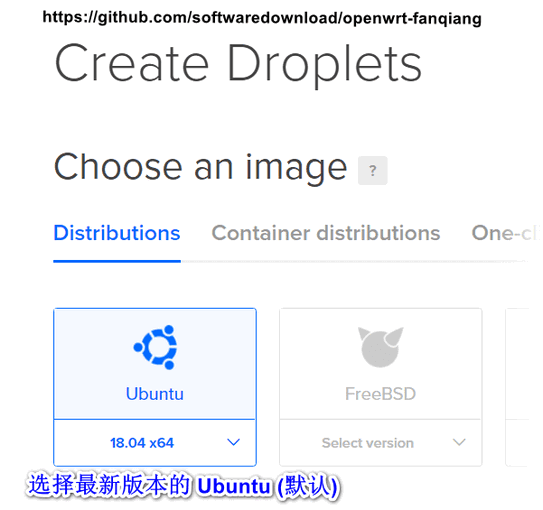
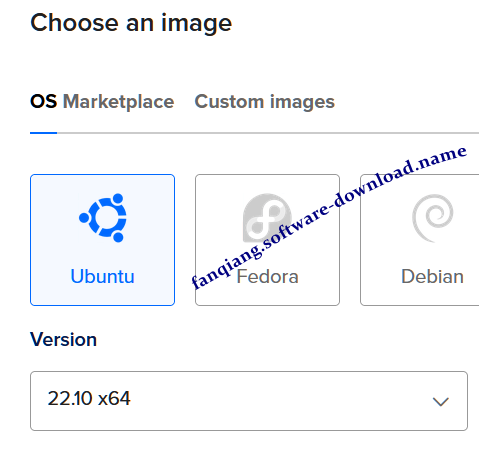
Update DO tutorial

diff --git a/ebook/03.9.md b/ebook/03.9.md
@@ -1,112 +1,134 @@
 零起点DO VPS shadowsocks-libev 翻墙设置教程
-=======================================
+===
 
 [Digital Ocean](https://m.do.co/c/89497bd485e0) (DO) 的优点：
---------
+---
 
 - 业界最有名的VPS服务商，服务有保障
 - 全SSD硬盘，速度极快，重启在10秒内
 - 所有 VPS 具有独立 IP 地址
-- 费用极低，$5/月起，作为 shadowsocks 足够了
-- 管理后台Console Access可以直接运行所有linux命令，可以不设置SSH
+- 费用极低，$4/月起，作为 shadowsocks 足够了
+- DO 网站的管理面板 Console 可以直接运行所有 Linux 命令，可以不在本机设置 SSH
 - 收费以小时计算，不用了可以删除，不会多收一分钱
 - 官方专业人员发布大量零起点教程，服务器管理菜鸟的福音
-- 更换IP方便，创建 snapshot，再从 snapshot 新建 Droplet, 就能得到新的IP了
+- [更换 IP 十分方便](03.9-1.md)，创建 snapshot，再从 snapshot 新建 Droplet, 就能得到新的 IP了
 
-    有时 VPS IP被屏蔽，翻墙自然失败，必须更换IP，[Digital Ocean](https://m.do.co/c/89497bd485e0) 更换 IP 就是几分钟的事情，然后翻墙客户端更新一下 Server IP 就可以了
+    [Digital Ocean](https://m.do.co/c/89497bd485e0) 更换 IP 就是几分钟的事情，然后翻墙客户端更新一下 Server IP 就可以了
 
 **[立即点击这里注册DO](https://m.do.co/c/89497bd485e0)**
 
-创建翻墙用的虚拟服务器Droplet
+
+创建翻墙用的虚拟服务器 Droplet
 --------
 
-注册DO并绑定支付方式后，登录管理后台，点击右上角的 `Create` 从下拉菜单中选择 `Droplets`:
-
-![Digital Ocean 创建 Droplet](images/3.9.create-droplets-on-digital-ocean.png)
-
-为什么 [Digital Ocean](https://m.do.co/c/89497bd485e0) 把 VPS 叫作 Droplet (水滴) 呢？ 这是因为公司名字 Digital Ocean 数字海洋，正是海量的水滴组成了 VPS 的海洋
+为什么 [Digital Ocean](https://m.do.co/c/89497bd485e0) 把 VPS 叫作 Droplet (水滴) 呢？ 这是因为公司名字是 Digital Ocean（数字海洋），正是海量的水滴组成了 VPS 的海洋
 
 现在我们知道了 VPS 在 DO 叫作 Droplet
 
+注册DO并绑定支付方式后，登录 [Digital Ocean](https://m.do.co/c/89497bd485e0) 管理后台，点击右上角的 `Create` 从下拉菜单中选择 `Droplets`:
+
+![Digital Ocean 创建 Droplet](images/3.9.create-droplets-on-digital-ocean.png)
+
+
 - Choose region 选择地区
 
-    多个城市可选，一般选择 San Francisco 或 New York。据从国内有限ping ip测试，San Francisco 比 New York 快约 60ms
+    多个城市可选，一般选择 San Francisco 或 New York。据从国内有限 ping ip 测试，San Francisco 比 New York 快约 60ms
     ![Digital Ocean VPS 选择区域](images/3.9.choose-a-datacenter-region.png)
 
+- Datacenter 选择数据中心
+
+    同一个地区可能有多个数据中心，不同数据中心的附加功能可能有所不同，页面有提示。对于翻墙来说，此步使用默认值就可以了
 
 - Choose an image 选择操作系统镜像
 
-    默认就是最新版的 Ubuntu x64，挺好! shadowsocke有的功能需要较新版的 Ubuntu 才能支持：
+    默认就是最新版的 Ubuntu x64，挺好!
     ![Digital Ocean VPS 选择操作系统发行版](images/3.9.choose-an-image.png)
 
-- Choose a plan 选择一个方案：STARTER - Standard (入门款 - 标准配置)
+- Choose Size 选择大小
 
-    ![Digital Ocean VPS 选择一个方案](images/3.9.choose-a-plan.png)
+    1. Droplet type 选择类型
 
-- 选择VPS的配置，最便宜款足够强大了
+        ![Digital Ocean VPS 选择一个方案](images/3.9.choose-droplet-type.png)
 
-    默认显示的是价格中等的方案，要向左滚动才能显示出我们需要的最便宜的方案
+        如上图，选择 `Basic` 基础款 VPS
 
-    ![Digital Ocean VPS 选择系统配置](images/3.9.choose-a-size-1.png)
 
-    再选择最便宜的VPS方案，5美元每月，0.007美元每小时，相当于人民币几分钱每小时：
+    2. CPU options 配置选项
 
-    ![Digital Ocean VPS 选择系统配置](images/3.9.choose-a-size.png)
+        ![Digital Ocean VPS 选择，点击向左箭头以显示最便宜款](images/3.9.choose-cpu-options-1.png)
 
-- Select additional options 选择附加选项, 勾选IPv6：
-    ![Digital Ocean VPS 使用 IPv6](images/3.9.select-addtional-options.png)
+        如上图，点击左侧的箭头后，会显示出我们需要的最便宜的方案
 
-- Choose a hostname (主机名字), 只是助记，比如改成ubuntu-shadowsocks
+        ![Digital Ocean 选择 4 美元每月的VPS](images/3.9.choose-cpu-options-2.png)
 
-    ![Digital Ocean 选择主机名字](images/3.9.choose-host-name-on-digital-ocean.png)
+        如上图，再点击选择最便宜的VPS方案，4 美元每月，0.006美元每小时，相当于人民币几分钱每小时
 
-- Create Droplet 创建虚拟服务器 **水滴**
+- Advanced options 高级选项
 
-    点击 **Create Droplet** 创建虚拟服务器VPS
+    ![Digital Ocean VPS 高级选项启用 IPv6](images/3.9.choose-advanced-options.png)
+
+    `Advanced Options` （高级选项）可能默认没有展开，点击展开它
+
+    勾选 `Enable Ipv6(free)`(启用 IPv6)
+
+- Finalize Details 最终细节设置
+
+    ![Digital Ocean 创建主机的最终细节设置](images/3.9.finalize-details.png)
+
+    - Quantity（数量）。默认创建 1 个 Droplet
+    - Hostname（主机名）。你自己用来分辨主机的特点、用途等
+    - Tags（标签）。如果你的VPS很多，标签可以用来分类。此处可以不填
+
+- Create Droplet 创建虚拟服务器 VPS
 
     ![Digital Ocean 创建VPS Droplet](images/3.9.create-droplet-on-digital-ocean.png)
 
+    点击 **Create Droplet** 创建虚拟服务器VPS
+
+
 进入 [Digital Ocean](https://m.do.co/c/89497bd485e0) VPS管理界面
---------
-
-
-在20秒内，VPS创建完毕后自动进入了 `Droplets` （VPS）列表页面
-
-以后每次登录 [Digital Ocean](https://m.do.co/c/89497bd485e0) 网站后，先展开左侧导航栏的 `MANAGE`(管理)，点击 **Droplets** 进入所有 VPS 的管理页面，再点击某个 Droplet名字进入某个VPS的管理页面，如下图：
+---
 
 ![Digital Ocean VPS 后台管理界面](images/3.9.jinru-fanqiang-vps-guanli.png)
+在20秒内，VPS创建完毕后自动进入了 `Droplets` （VPS）列表页面
+
+如上图，以后每次登录 [Digital Ocean](https://m.do.co/c/89497bd485e0) 网站后，先展开左侧导航栏的 `MANAGE` (管理)，点击 **Droplets** 进入所有 VPS 的管理页面，再点击某个 Droplet 名字进入某个VPS的管理页面
+
 
 如何重置DO VPS Root密码
---------
+---
 
 注：如果已经通过邮件收到root密码，请跳到一下步
 
-在进入你的某个VPS管理页面后，
+![Digital Ocean VPS重置密码](images/3.9.reset-password.png)
+
+在进入你的某个 VPS 管理页面后，
 
 点击左边的 `Access` 再点击右边的 `Reset Root Password` 重置密码：
-![Digital Ocean VPS重置密码](images/3.9.reset-password.png)
 
 重置密码完成后，新的密码会发送到你的邮箱，下面我们就用这个密码登录并直接通过网页 Console 控制台管理 VPS
 
 进入DO VPS命令行控制界面 Console Access
---------
+---
 
-DO有个极为强大的功能，可以可以直接在管理后台Console Access 运行Linux命令管理VPS，相当于一个在线版的ssh
-
-在进入你的 Droplets 列表页面后，点击某个Droplet最右边的 **More**, 在弹菜单中选择 **Access Console** 进入命令行管理VPS，如下图:
+DO有个极为强大的功能，可以可以直接在管理后台 Access Console  运行 Linux 命令管理 VPS，相当于一个在线版的ssh
 
 ![Digital Ocean VPS 运行 Console命令行控制台](images/3.9.console.png)
 
-打开 Console 的另一方法是，在某个VPS的管理页面，先点击左边的 `Access` 然后点击 `Launch Console` 如下图：
+如上图，在进入你的 Droplets 列表页面后，点击某个Droplet最右边的 **More**, 在弹菜单中选择 **Access Console** 进入命令行管理VPS
+
+打开 Console 的另一方法是，进入某个VPS的管理页面后，点击页面右上角的 `Console`
+
+或者先点击左边的 `Access` 然后点击 `Launch Droplet Console` 如下图：
 
 ![Digital Ocean VPS Launch Console](images/3.9.console-access-fanqiang-vps.png)
 
-如果等了一会儿命令行界面还没有出来，就按F5刷新页面直到打开
+如果你等了一会儿命令行界面还没有出来，就按F5刷新页面直到打开
 
 点击打开的命令行窗口以获得输入焦点
 
 命令行设置新的Root密码
---------
+---
 
 开启 [Digital Ocean](https://m.do.co/c/89497bd485e0) Console Access后，输入root并回车，然后重新设置密码
 
@@ -126,12 +148,13 @@ DO有个极为强大的功能，可以可以直接在管理后台Console Access 
 
 可能会问你要不要更新一下grub，直接回车就行了。（我选择的是升级到 `install the package maintainer's version`）
 
+
 附录一：[快速、极省钱更换 DO VPS IP 地址](03.9-1.md)
--------------------------------
+---
 
 
 附录二：怎样不“登录”路由器更改OpenWrt shadowsocks-libev路由器的server IP
----------------------------------
+---
 
 - 路由器设置密钥登录，这样ssh登录就不用密码了
 - 创建config配置文件, Ubuntu下是 `~/.ssh/config`，增加如下内容：

diff --git a/ebook/03.9-1.md b/ebook/03.9-1.md
@@ -99,7 +99,7 @@ DO VPS 关机有二种方式
 
 这时会弹出一个页面提示你要慎重操作，要求你手动 输入 你要销毁的 Droplet 的名字以确保你不是手一滑的失误操作
 
-输入框的上方显示了你要销毁的 Droplet 的名字，这时你要再次确认你的选择是正确的，然后就在输入框里输入  Droplet 的名字，输入完成后，弹出框右下角的 ｀Destroy｀（销毁）按钮这时会由灰色变成可用，点击它即可。如下图：
+输入框的上方显示了你要销毁的 Droplet 的名字，这时你要再次确认你的选择是正确的，然后就在输入框里输入  Droplet 的名字，输入完成后，弹出框右下角的 `Destroy`（销毁）按钮这时会由灰色变成可用，点击它即可。如下图：
 
 ![Digital Ocean Destroy Droplet DO销毁VPS](images/3.9-1.destroy-vps.png)
 
@@ -113,5 +113,33 @@ DO VPS 关机有二种方式
 ---
 
 如果你的 VPS 并没有持续写入的重要数据，那么你可以跳过 VPS 关机的步骤，直接创建 Snapshot 快照，这时 `Take snapshot` (制作快照)按钮会变成 `Take live snapshot`（制作实时快照），其他步骤和上面的教程相同
+
+
+更改翻墙路由器中的 server_ip.txt
+---
+
+如果你按照本 [OpenWrt 路由器 shadowsocks 自动翻墙、科学上网教程](https://fanqiang.software-download.name) 设置了翻墙路由器，VPS 换成新 IP 后，需要同步更改路由器里的 server IP
+
+- 命令行 ssh 登录路由器
+- 命运令更改 `server_ip.txt`
+
+    > cd /etc/shadowsocks-libev
+
+    > vi server_ip.txt
+
+    把 `server_ip.txt` 中不用的 IP 删掉，增加新的 IP，每个 IP 一行，注意不要插入不必要的空格
+- 启用新 IP
+
+    最简单的方法是把路由器关机再开机
+
+    也可以在 ssh 登录路由器后重启 shadowscks 服务：
+
+    > /etc/init.d/shadowsocks/stop
+
+    > /etc/init.d/shadowsocks/start
+
+    或者用命令行直接重启路由器：
+
+    > reboot
 
 2023-02-05
